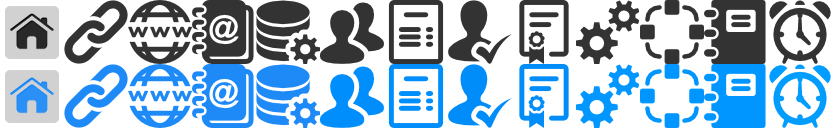
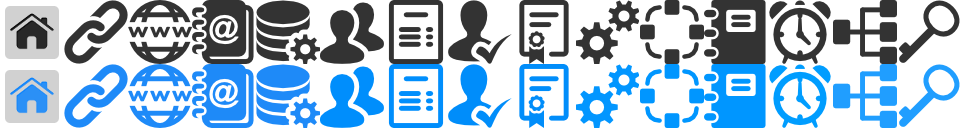
сделан раздел ACL

diff --git a/web/js/squidacl.js b/web/js/squidacl.js
@@ -27,22 +27,12 @@ $(document).ready(function() {
 				"oTableTools": TTOpts
 		};
 
-		//~ TTOpts.aButtons[3] = {
-							//~ "sExtends":"text",
-							//~ "sButtonText": ".",
-							//~ "sButtonClass": "DTTT_button_save DTTT_disabled",
-							//~ "fnClick": function( nButton, oConfig ) {
-											//~ //$(nButton).hasClass('DTTT_disabled') ? this.fnPrint( false, oConfig ) : this.fnPrint( true, oConfig );
-										//~ }
-							//~ };
-
 		TTOpts.aButtons[5].sButtonText = 'ACL';
-		TTOpts.aButtons.splice(4,1);
+		TTOpts.aButtons.splice(3,2);
 		$('#tab-squidacl').dataTable(TOptions);
 		
 		TTOpts.aButtons[1].sButtonClass = 'DTTT_button_new DTTT_disabled';
-		TTOpts.aButtons[4].sButtonText = 'DATA';
-		//~ TTOpts.aButtons.splice(3,1);
+		TTOpts.aButtons[3].sButtonText = 'DATA';
 		TOptions.aoColumns.splice(1,1);
 		delete TOptions.sAjaxSource;
 

diff --git a/web/css/smoothness/images.css b/web/css/smoothness/images.css
@@ -211,3 +211,11 @@ a.DTTT_button_save.DTTT_disabled span {
 #alarms:hover {
 	background-position: -768px -64px;
 }
+
+#squidacl {
+	background-position: -832px 0px;
+}
+#squidacl.pagetab-selected,
+#squidacl:hover {
+	background-position: -832px -64px;
+}

diff --git a/web/css/style.css b/web/css/style.css
@@ -293,6 +293,7 @@ td.mcenter {
 	float: right;
 }
 /**** картинки ***/
+#squidacl,
 #alarms,
 #badm,
 #bcont,
